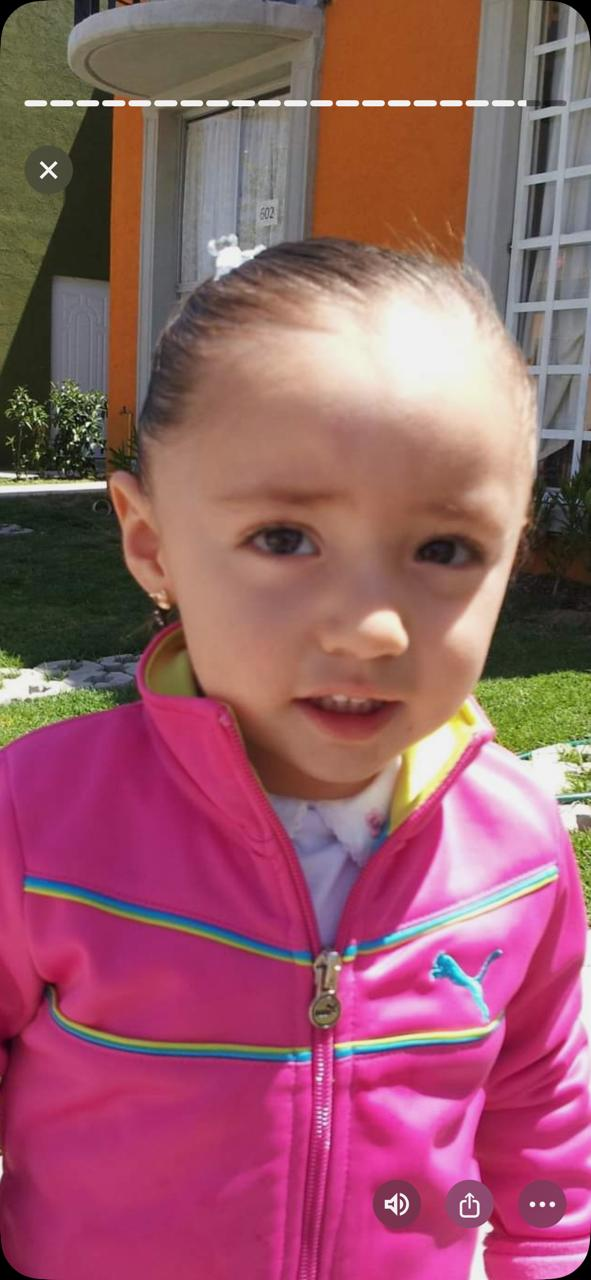
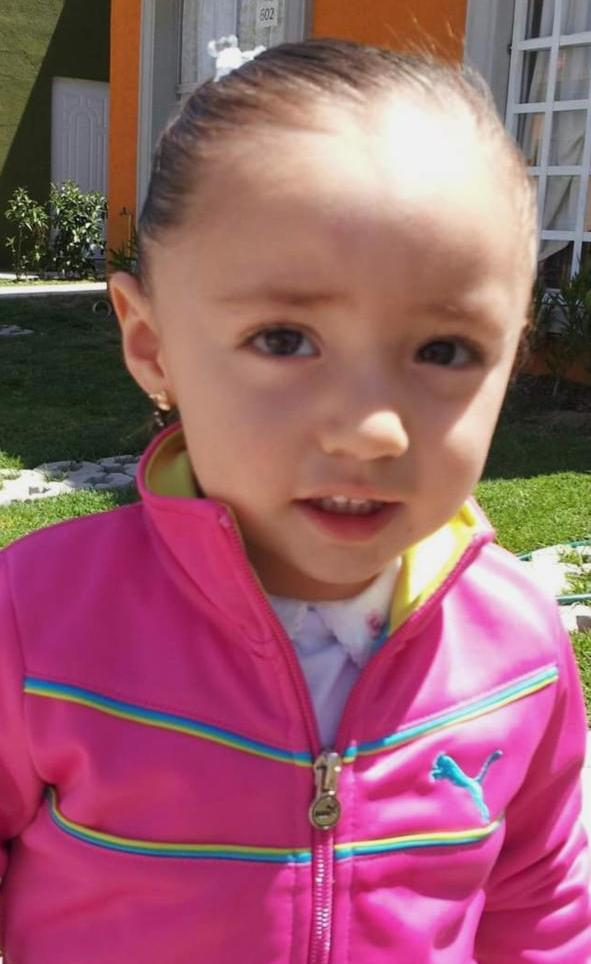
cambios

diff --git a/invi_marzo_06/invitacion_xv/Full_web_yahaira/invitacion.html b/invi_marzo_06/invitacion_xv/Full_web_yahaira/invitacion.html
@@ -176,7 +176,7 @@
     /* HERO */
     .hero-full {
       position: relative;
-      height: 100vh;
+      height: 70vh;
       padding: 0;
       overflow: hidden;
     }
@@ -204,8 +204,8 @@
       color: #fff;
       background: linear-gradient(to top,
           rgba(172, 109, 175, 1.00) 0%,
-          rgba(172, 109, 175, 0.98) 22%,
-          rgba(172, 109, 175, 0.42) 42%,
+          rgba(172, 109, 175, 1.00) 22%,
+          rgba(172, 109, 175, 0.62) 42%,
           rgba(172, 109, 175, 0.16) 62%,
           rgba(172, 109, 175, 0.04) 78%,
           rgba(172, 109, 175, 0) 100%);
@@ -887,7 +887,7 @@
 
     <!-- 1. HERO -->
     <section id="inicio" class="hero-full">
-      <img src="img/portada.jpeg" alt="">
+      <img src="img/portada.png" alt="">
       <div class="hero-overlay">
         <div class="hero-text">
           <div class="hero-name">Yajaira</div>
@@ -929,9 +929,9 @@
 <div class="flourish"></div>
         <div class="intro-parents-title">Mis padres</div>
         <p class="intro-list">
-         <strong> Guillermo Amaya<br>
+         Guillermo Amaya<br>
           y <br>
-          Elvia Domínguez</strong>
+          Elvia Domínguez
         </p>
 
         <div class="intro-parents-title">Mis padrinos</div>
@@ -977,7 +977,7 @@
       </div>
 
       <div class="event-card reveal reveal-right">
-        <img src="img/iglesia.jpeg" alt="Capilla de la Santísima" class="event-photo">
+        <img src="img/iglesia.jpg" alt="Capilla de la Santísima" class="event-photo">
         <div class="event-content">
           <div class="event-label">Iniciamos con la</div>
           <div class="event-script">Ceremonia Religiosa</div>
@@ -1381,21 +1381,21 @@
 
     // GALERÍA – SLIDER + LIGHTBOX
     const galleryImages = [
-      "img/galeria/1.jpeg",
-      "img/galeria/2.jpeg",
-      "img/galeria/3.jpeg",
-      "img/galeria/4.jpeg",
-      "img/galeria/5.jpeg",
-      "img/galeria/6.jpeg",
+		 "img/galeria/10.jpeg",
+		 "img/galeria/6.jpeg",
       "img/galeria/7.jpeg",
-      "img/galeria/8.jpeg",
-      "img/galeria/9.jpeg",
-      "img/galeria/10.jpeg",
-      "img/galeria/11.jpeg",
+		 "img/galeria/11.jpeg",
+		 "img/galeria/5.jpeg",
+		 "img/galeria/4.jpeg",
+		"img/galeria/3.jpeg",
+		 "img/galeria/2.jpeg",
+      "img/galeria/1.jpeg",
       "img/galeria/12.jpeg",
       "img/galeria/13.jpeg",
       "img/galeria/14.jpeg",
       "img/galeria/15.jpeg",
+		"img/galeria/8.jpeg",
+      "img/galeria/9.jpeg"
 
     ];
 
